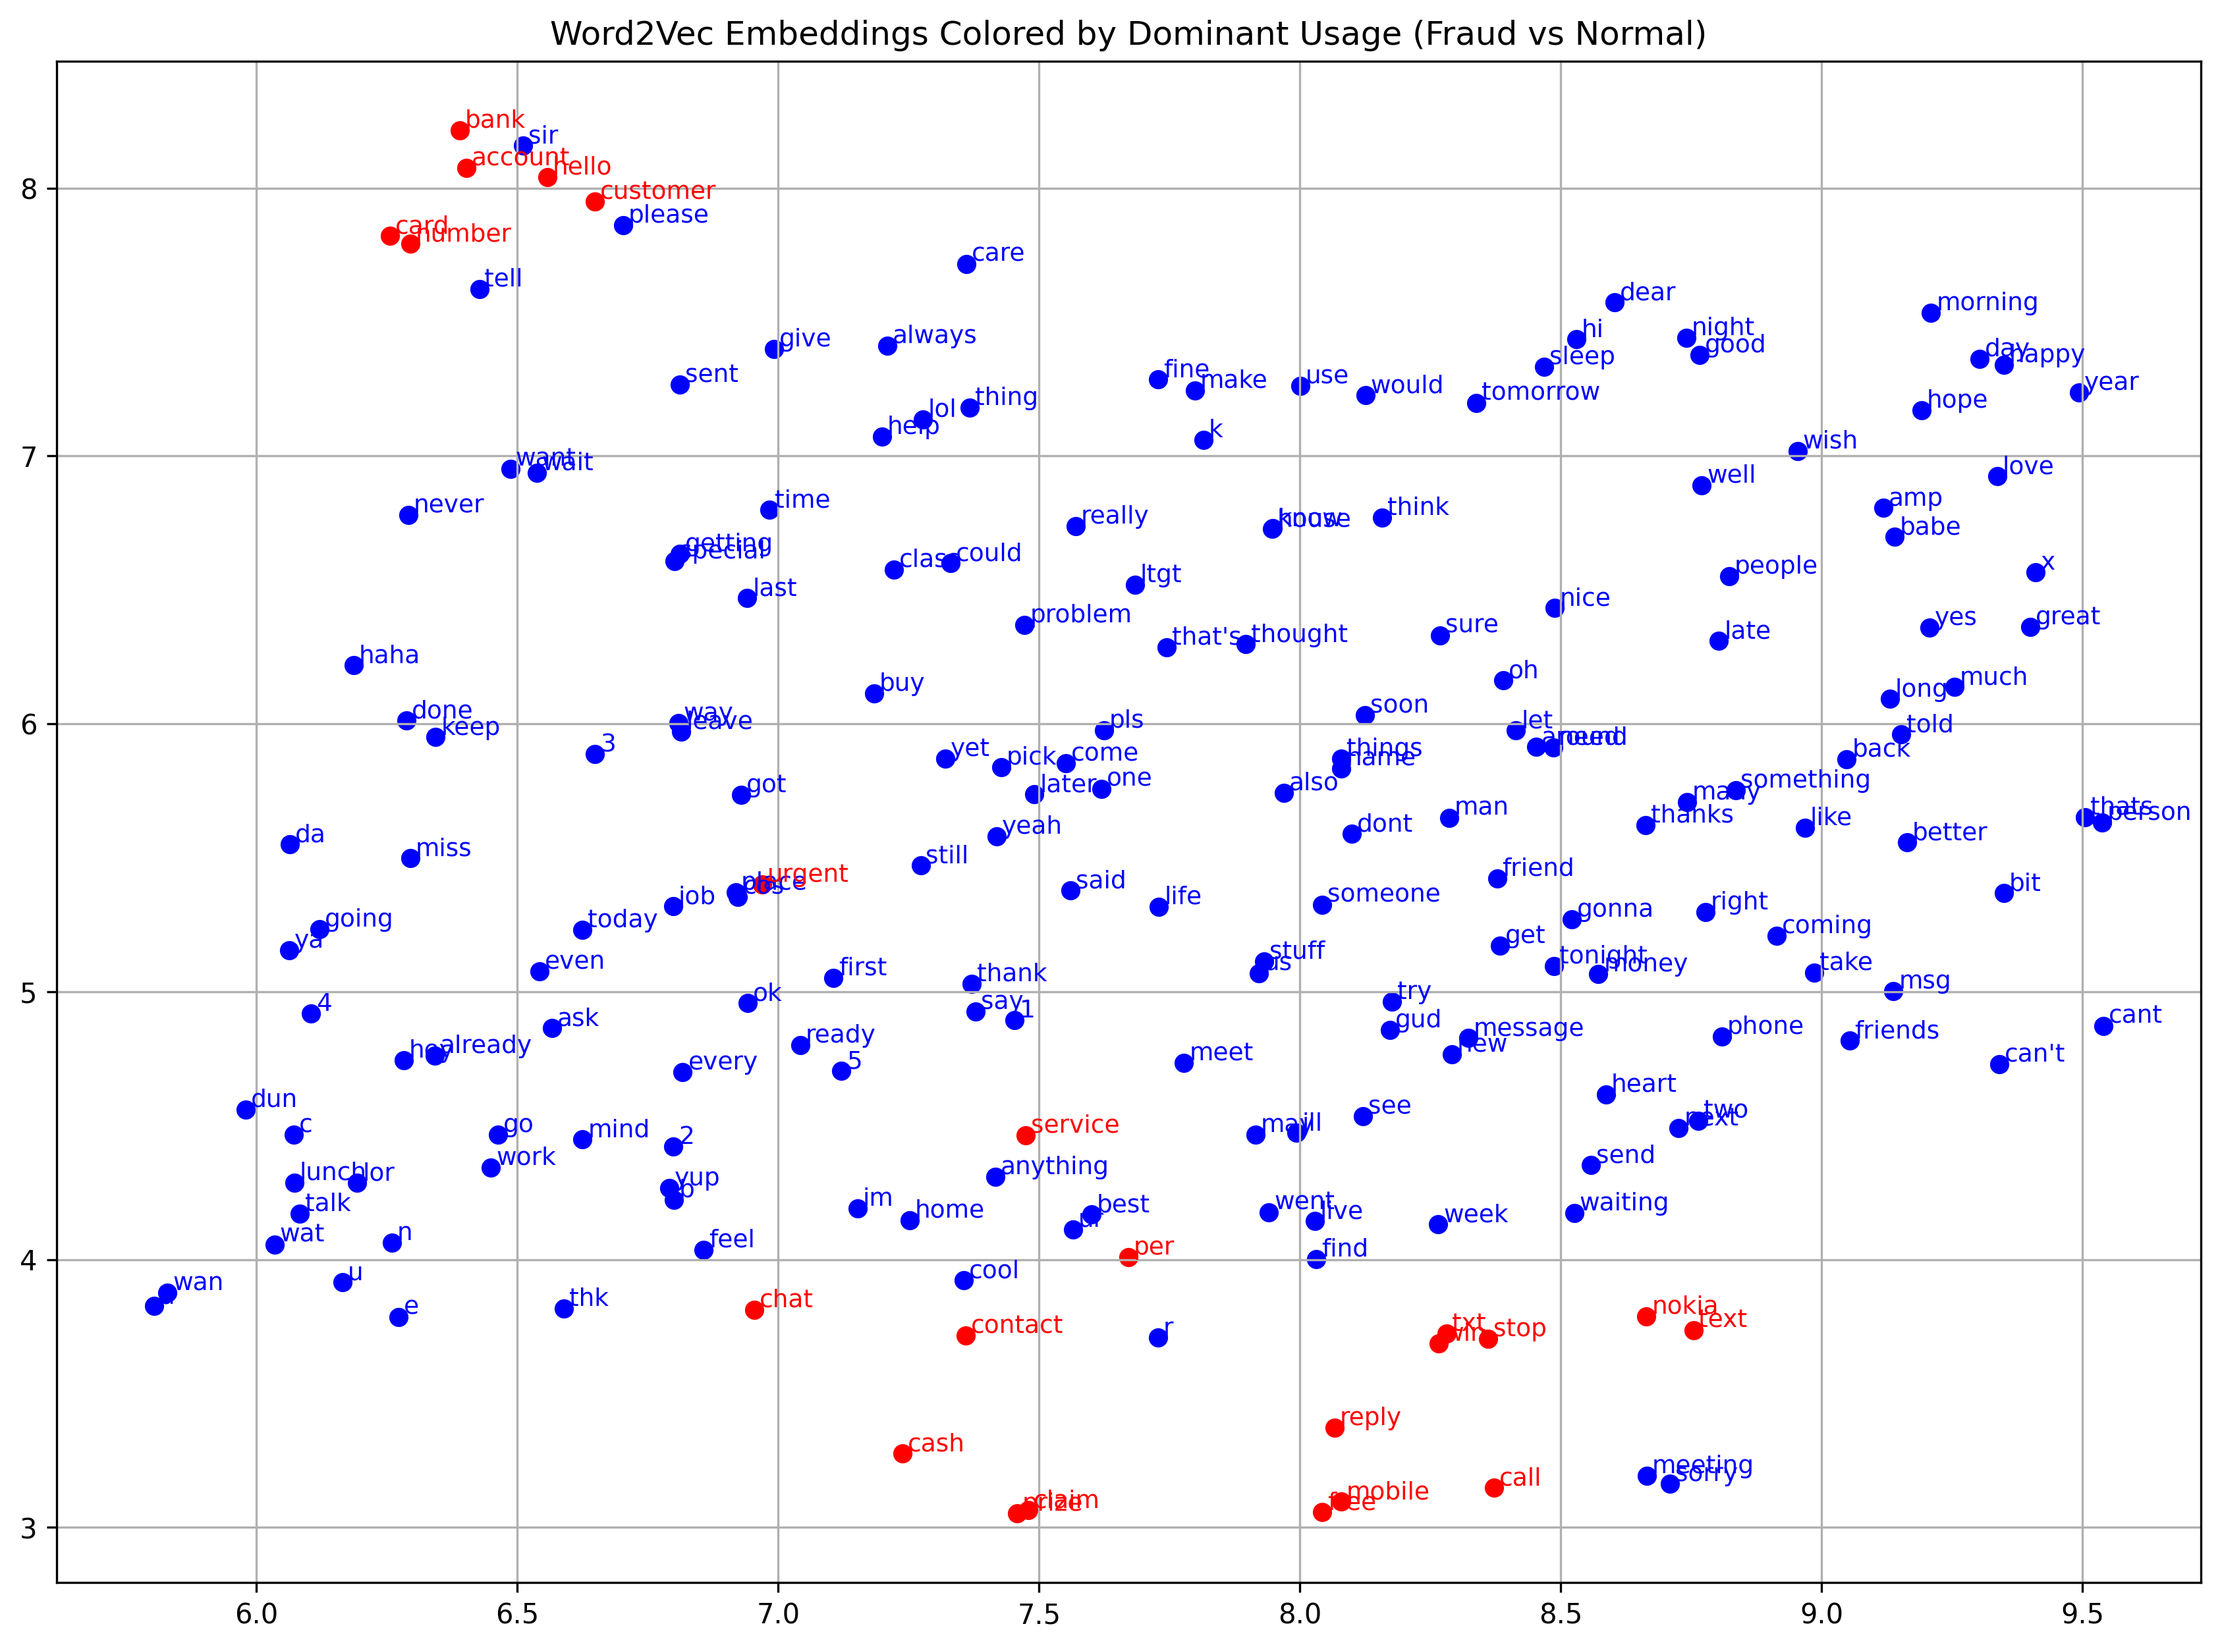
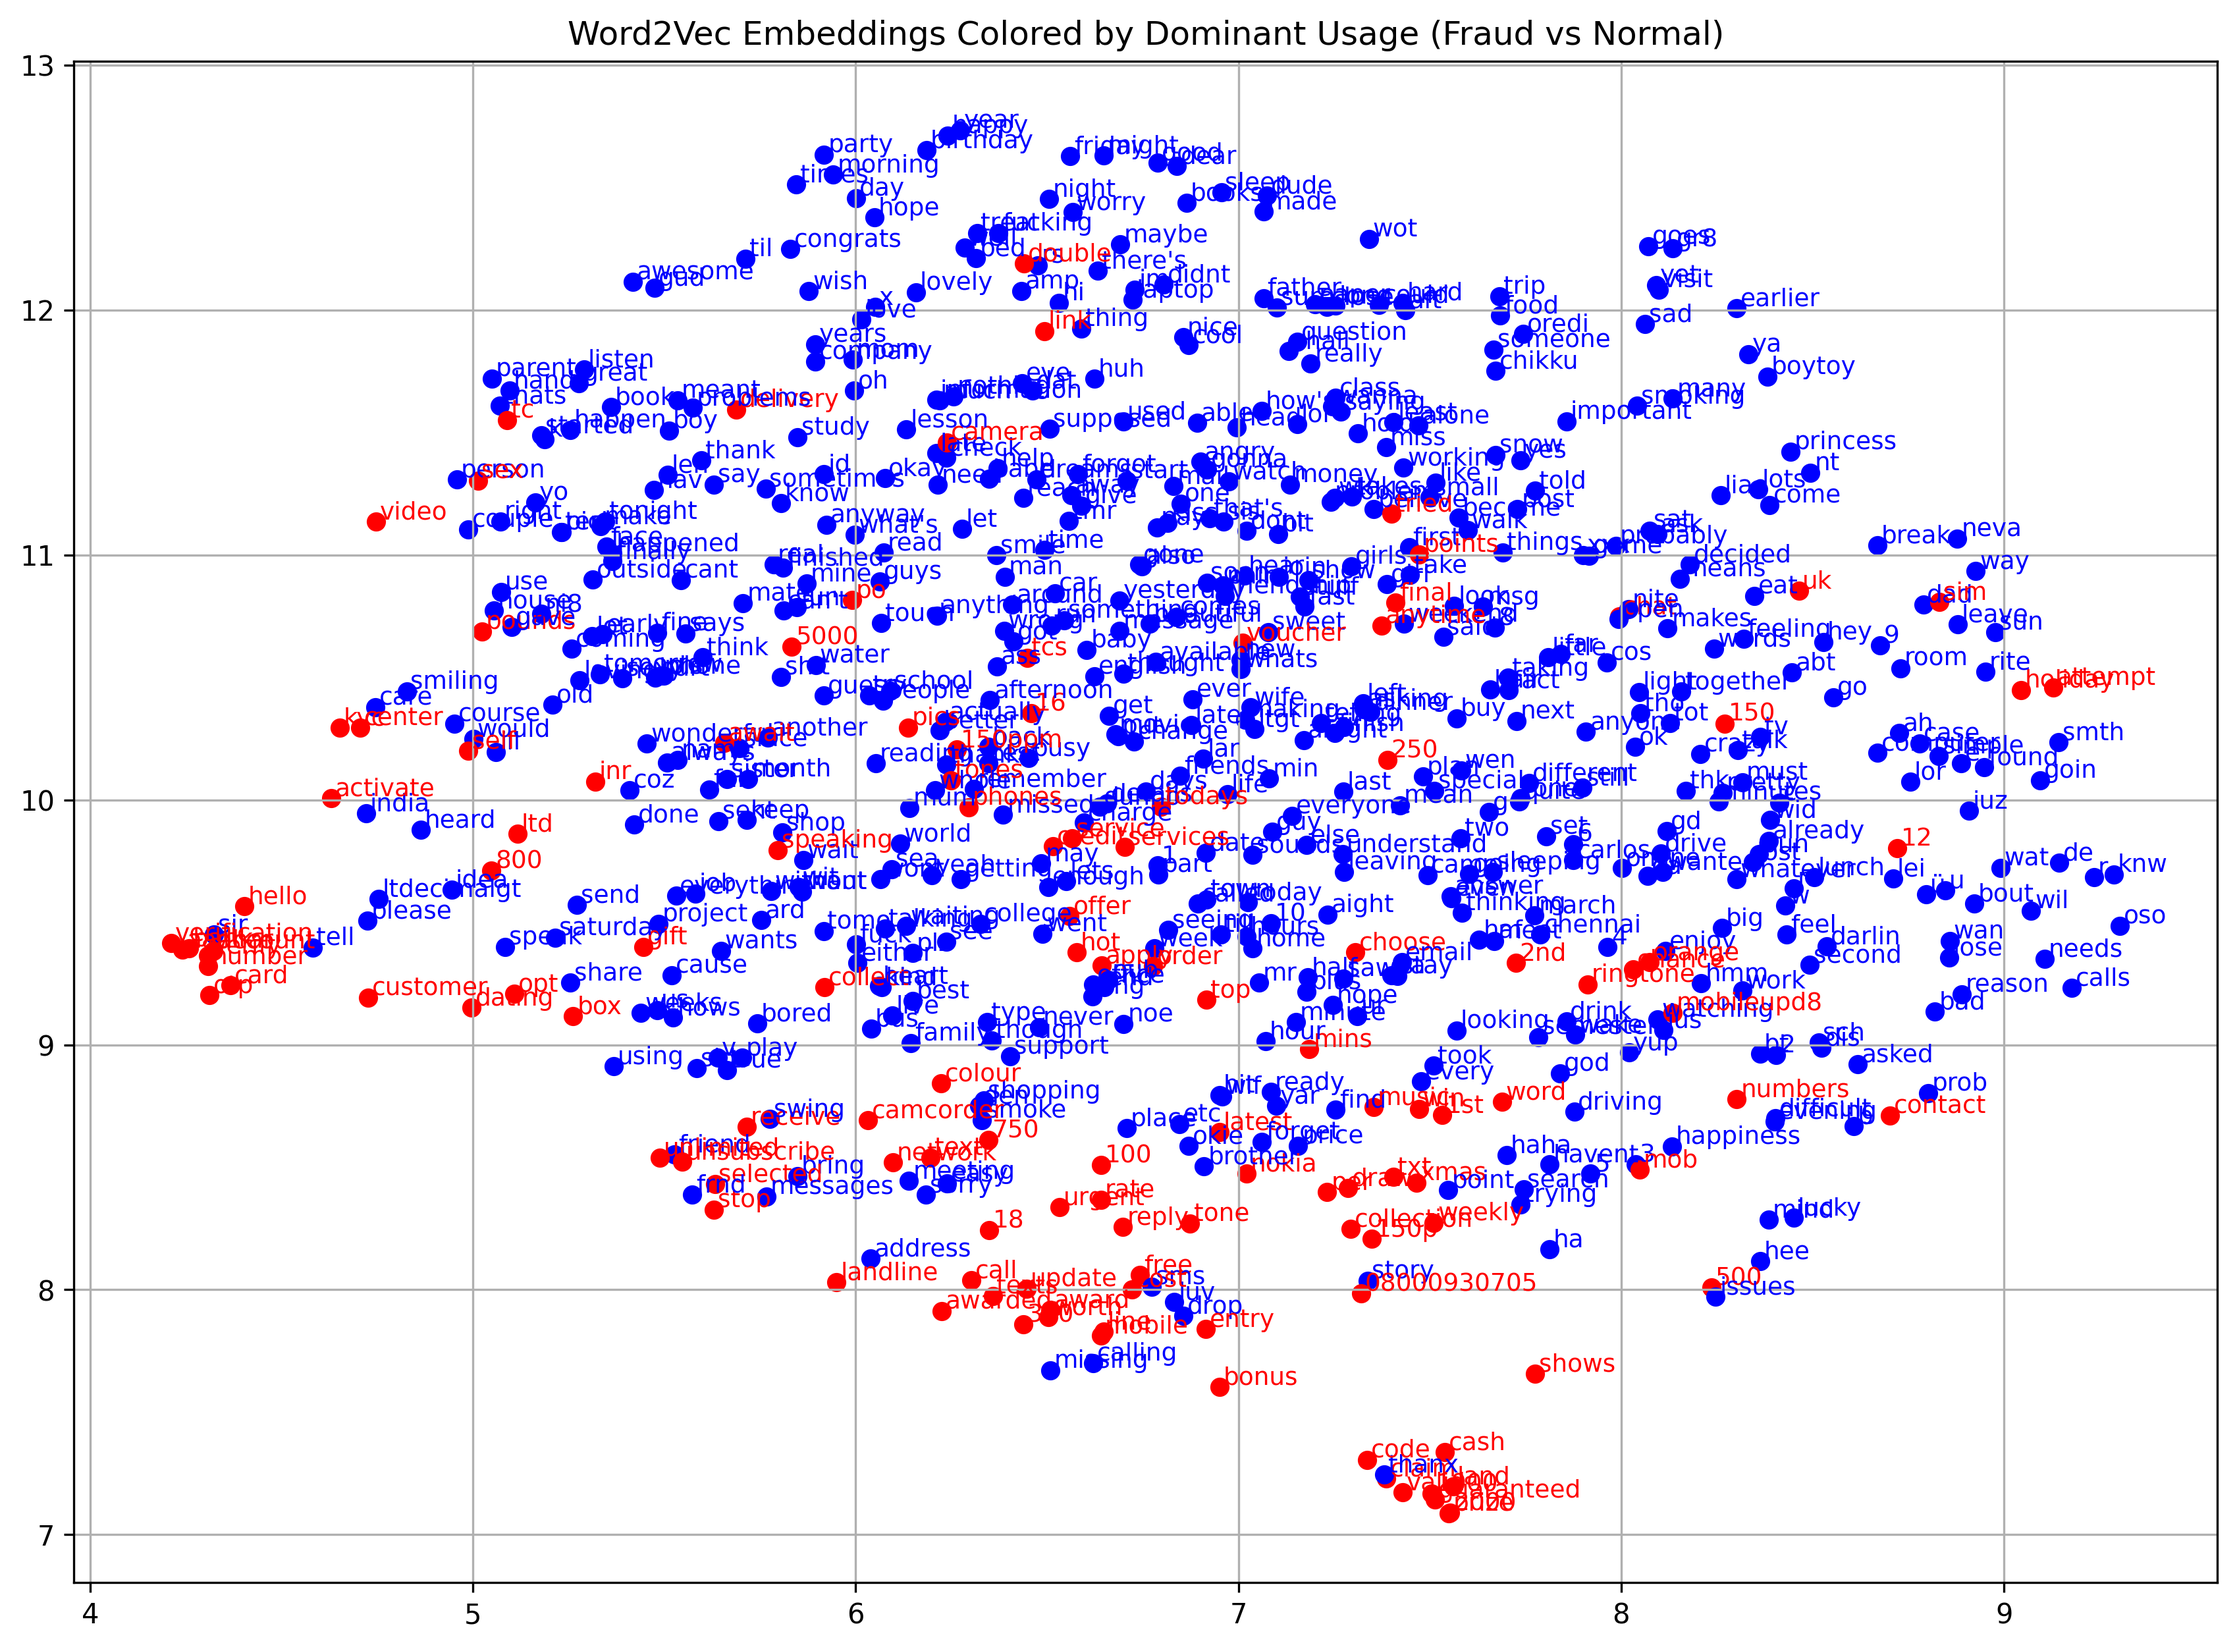
better word embeddings graph

diff --git a/code/embeddings.py b/code/embeddings.py
@@ -44,7 +44,7 @@ print(f"Silhouette Score (KMeans): {sil_score:.3f}")
 # Step 5: Word Embeddings using Word2Vec
 word2vec_model = Word2Vec(sentences=df['tokens'], vector_size=100, window=5, min_count=3, workers=4)
 word_vectors = word2vec_model.wv
-top_words = [word for word in word_vectors.index_to_key[:200]]
+top_words = [word for word in word_vectors.index_to_key[:700]]
 word_vecs = [word_vectors[word] for word in top_words]
 
 # NEW: Count how often each word appears in fraud vs normal
